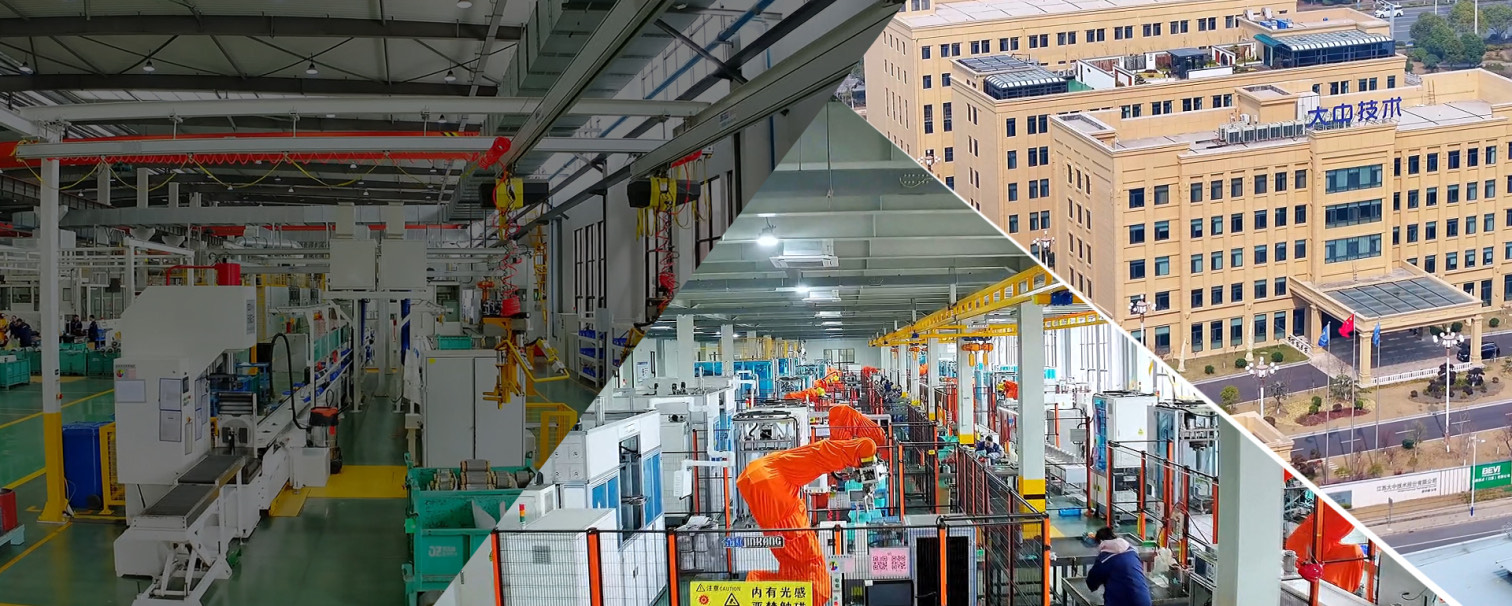
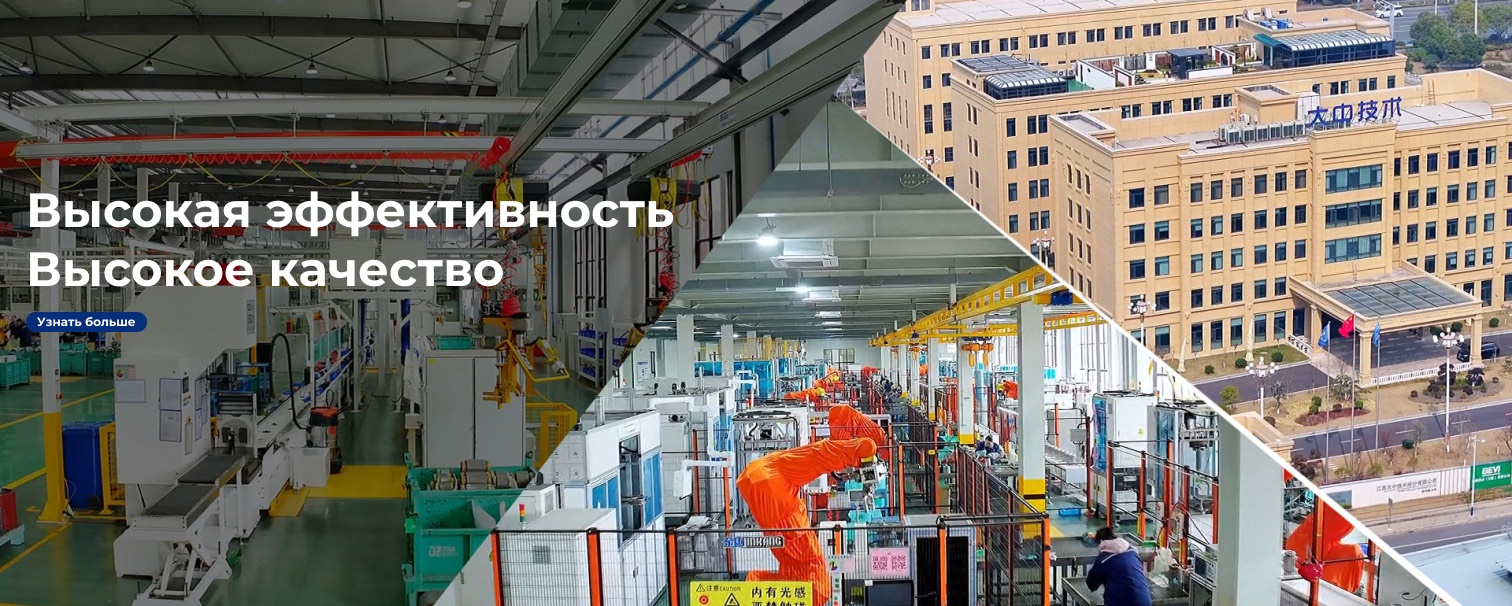
fix main slides

Changed region(s): [[0.0, 0.297, 0.4663, 0.3861], [0.0, 0.4158, 0.3419, 0.4752], [0.0, 0.505, 0.0933, 0.5644]]

diff --git a/dzmotortech.ru/index.html b/dzmotortech.ru/index.html
@@ -530,12 +530,12 @@ var chectoutpage="";
 		<div class="bd">
 			<ul>
 				
-					<li style="display: table-cell;"><a  title="">
+					<li style="display: table-cell;"><a href="pages/Профиль-компании-11932326.html" title="Презентация компании">
 					<img fetchpriority="high" width="1512" height="606" sizes="100vw" src="/images.51microshop.com/18628/snippet/1753691315115_0.jpg_w900.jpg" srcset="/images.51microshop.com/18628/snippet/1753691315115_0.jpg_w640.jpg 640w,/images.51microshop.com/18628/snippet/1753691315115_0.jpg_w900.jpg 900w,/images.51microshop.com/18628/snippet/1753691315115_0.jpg_w1512.jpg 1512w" alt="" class="all_transition" />
 					</a></li>
 				
-					<li style="display: table-cell;"><a  title="">
-					<img loading="lazy"  width="300" height="100" alt="" data-sizes="100%" data-srcset="//images.51microshop.com/18628/snippet/1753691268365_0.jpg_w180.jpg 180w,//images.51microshop.com/18628/snippet/1753691268365_0.jpg_w360.jpg 360w,//images.51microshop.com/18628/snippet/1753691268365_0.jpg_w540.jpg 540w,//images.51microshop.com/18628/snippet/1753691268365_0.jpg_w720.jpg 720w,//images.51microshop.com/18628/snippet/1753691268365_0.jpg_w900.jpg 900w,//images.51microshop.com/18628/snippet/1753691268365_0.jpg_w1080.jpg 1080w,//images.51microshop.com/18628/snippet/1753691268365_0.jpg_w1296.jpg 1296w,//images.51microshop.com/18628/snippet/1753691268365_0.jpg_w1512.jpg 1512w,//images.51microshop.com/18628/snippet/1753691268365_0.jpg_w1728.jpg 1728w,//images.51microshop.com/18628/snippet/1753691268365_0.jpg_w2048.jpg 2048w" class="all_transition lazyload no-src" />
+					<li style="display: table-cell;"><a href="pages/Профиль-компании-11932326.html" title="Презентация компании">
+					<img loading="lazy" width="1512" height="606" sizes="100vw" src="/images.51microshop.com/18628/snippet/1753691268365_0.jpg_w900.jpg" srcset="/images.51microshop.com/18628/snippet/1753691268365_0.jpg_w640.jpg 640w,/images.51microshop.com/18628/snippet/1753691268365_0.jpg_w900.jpg 900w,/images.51microshop.com/18628/snippet/1753691268365_0.jpg_w1512.jpg 1512w" alt="" class="all_transition" />
 					</a></li>
 				
 			</ul>
